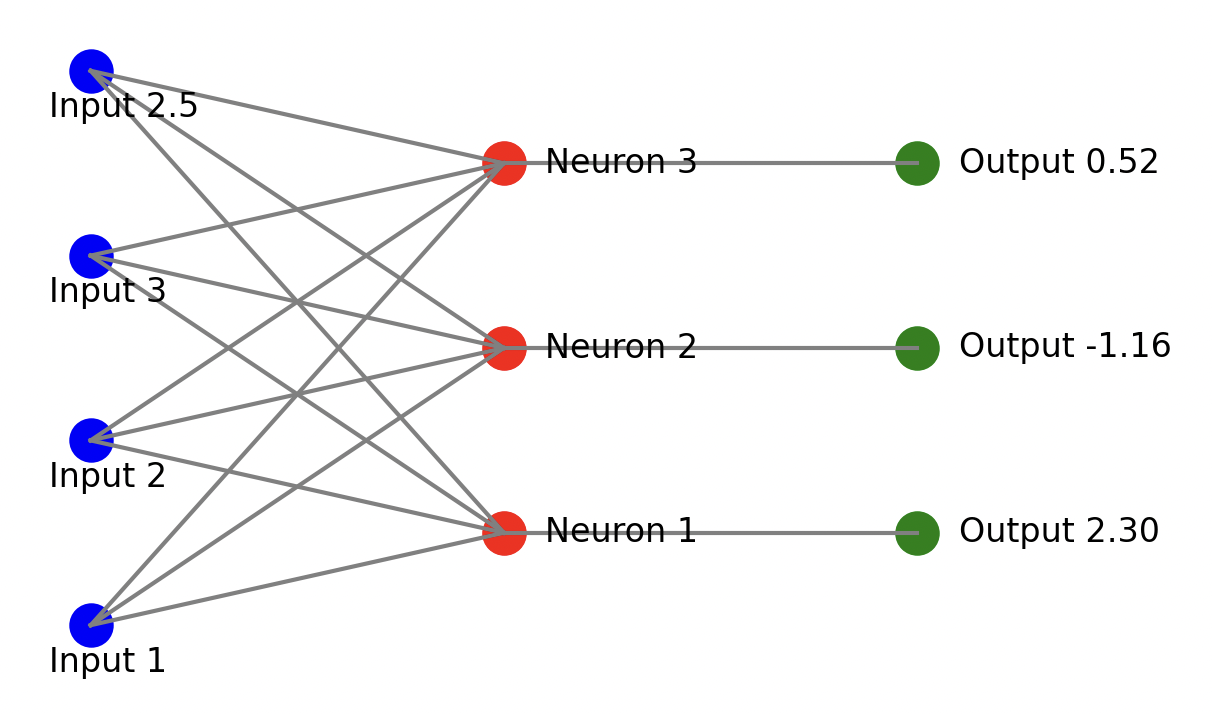
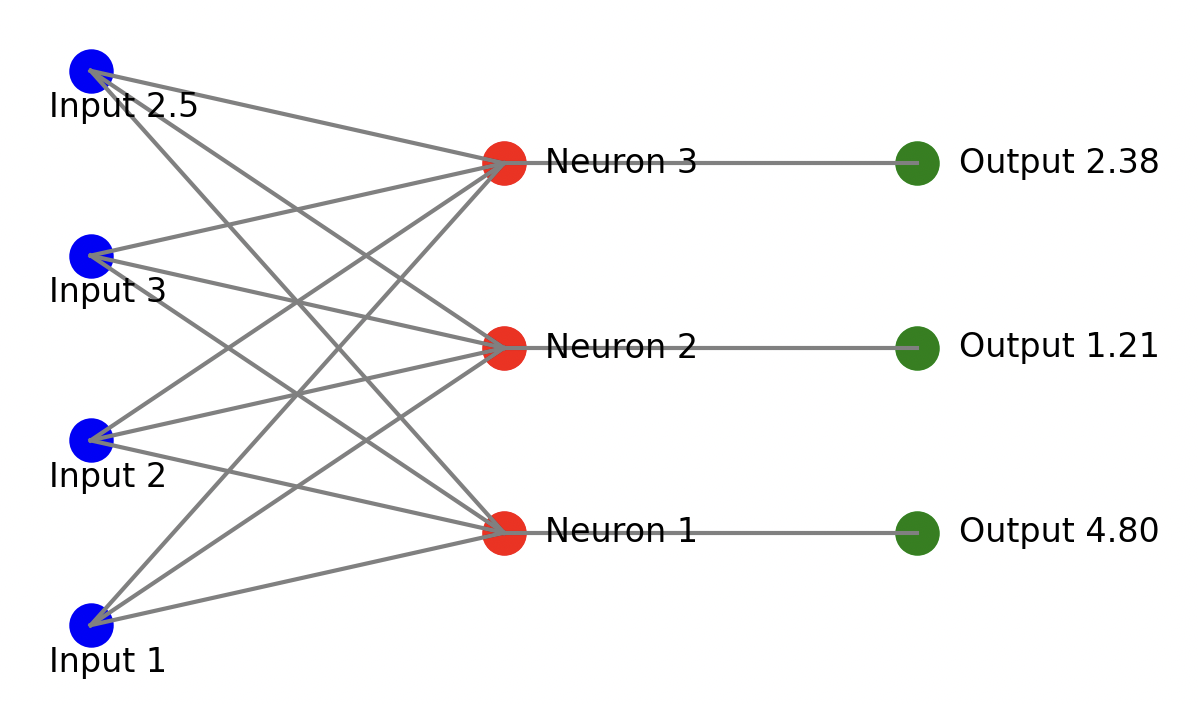
Standarized 3 neuron code

diff --git a/first_neuron/main.go b/first_neuron/main.go
@@ -5,30 +5,30 @@ import "fmt"
 func main() {
 	inputs := []float32{1, 2, 3, 2.5}
 
-	weights1 := []float32{0.2, 0.8, -0.5, 1.0}
-	weights2 := []float32{0.5, -0.91, 0.26, -0.5}
-	weights3 := []float32{-0.26, -0.27, 0.17, 0.87}
+	weights := [][]float32{
+		{0.2, 0.8, -0.5, 1.0},
+		{0.5, -0.91, 0.26, -0.5},
+		{-0.26, -0.27, 0.17, 0.87},
+	}
 
-	var bias1 float32 = 2
-	var bias2 float32 = 3
-	var bias3 float32 = 0.5
+	biases := []float32{2, 3, 0.5}
 
-	output1 := (inputs[0]*weights1[0] +
-		inputs[1]*weights1[1] +
-		inputs[2]*weights1[2] +
-		inputs[3]*weights1[3] + bias1)
+	outputs := make([]float32, 3)
 
-	output2 := (inputs[0]*weights2[0] +
-		inputs[1]*weights2[1] +
-		inputs[2]*weights2[2] +
-		inputs[3]*weights2[3] + bias2)
+	for i := range weights {
+		neuronWeights := weights[i]
+		neuronB := biases[i]
 
-	output3 := (inputs[0]*weights3[0] +
-		inputs[1]*weights3[1] +
-		inputs[2]*weights3[2] +
-		inputs[3]*weights3[3] + bias3)
+		var neuronOut float32
 
-	finalOutput := []float32{output1, output2, output3}
+		for j := range neuronWeights {
+			neuronOut += neuronWeights[j] * inputs[j]
+		}
 
-	fmt.Println(finalOutput)
+		neuronOut += neuronB
+		outputs[i] = neuronOut
+	}
+
+	fmt.Println(outputs)
+
 }

diff --git a/first_neuron/graphs/code/graph4.py b/first_neuron/graphs/code/graph4.py
@@ -8,7 +8,7 @@ layer_neurons_x = [3, 3, 3]
 layer_neurons_y = [1.5, 2.5, 3.5]
 
 # Outputs
-outputs = [2.3, -1.16, 0.52]  # Replace these with the actual output values
+outputs = [4.8, 1.2099999, 2.385]  # Replace these with the actual output values
 output_labels = [f'Output {o:.2f}' for o in outputs]
 
 # Create a figure

diff --git a/first_neuron/README.md b/first_neuron/README.md
@@ -224,4 +224,67 @@ Then we can see all these 3 results as a list:
 </center>
 
 
+https://nnfs.io/mxo/
 
+### Standarizing the code
+
+In this code, we have three sets of weights and three biases, defining three neurons. Each neuron is "connected" to the same inputs, but the distinction lies in the individual weights and bias that each neuron applies to the input. This structure is referred to as a fully connected neural network, where every neuron in the current layer has connections to every neuron in the previous layer. While this is a common type of neural network, it's worth noting that there is no strict requirement for everything to be fully connected in this manner. So far, we have only demonstrated code for a single layer with a limited number of neurons. Visualizing code for many more layers and neurons would quickly become complex using our current approach. Instead, we could implement a loop to scale and manage dynamically sized inputs and layers. We’ve converted the individual weight variables into a list of weights, allowing us to iterate over them, and we modified the code to use loops instead of hardcoded operations.
+
+``` go
+package main
+
+import "fmt"
+
+func main() {
+	// Define the inputs to the neurons
+	inputs := []float32{1, 2, 3, 2.5}
+
+	// Define weights for each neuron, with each inner slice representing the weights for one neuron
+	weights := [][]float32{
+		{0.2, 0.8, -0.5, 1.0},   // Weights for Neuron 1
+		{0.5, -0.91, 0.26, -0.5}, // Weights for Neuron 2
+		{-0.26, -0.27, 0.17, 0.87}, // Weights for Neuron 3
+	}
+
+	// Define biases for each neuron
+	biases := []float32{2, 3, 0.5}
+
+	// Create a slice to hold the outputs from each neuron
+	outputs := make([]float32, 3)
+
+	// Iterate over each set of weights (and corresponding bias) for the neurons
+	for i := range weights {
+		// Get the weights and bias for the current neuron
+		neuronWeights := weights[i]
+		neuronB := biases[i]
+
+		// Initialize the output for the current neuron
+		var neuronOut float32
+
+		// Calculate the weighted sum of inputs for the current neuron
+		for j := range neuronWeights {
+			neuronOut += neuronWeights[j] * inputs[j] // Multiply each weight by its corresponding input and sum
+		}
+
+		// Add the bias to the weighted sum
+		neuronOut += neuronB
+
+		// Store the output of the current neuron
+		outputs[i] = neuronOut
+	}
+
+	// Print the outputs from all neurons
+	fmt.Println(outputs)
+}
+
+```
+
+```
+>>> [4.8 1.2099999 2.385]
+```
+
+### NICEE!!!
+
+This approach accomplishes the same goal as before but in a more dynamic and scalable manner. If you find any part of the process confusing, feel free to use print() to output the objects and better understand what they are and what’s happening.
+
+So, how do we determine that we have three neurons? The answer lies in the presence of three sets of weights and three biases. When you create your own neural network, you have the freedom to decide how many neurons to include in each layer. You can combine any number of inputs with as many neurons as you wish. As you progress through this book, you'll develop an intuition for the appropriate number of neurons to use. Initially, we'll work with small numbers of neurons to help you grasp the fundamental workings of neural networks.
